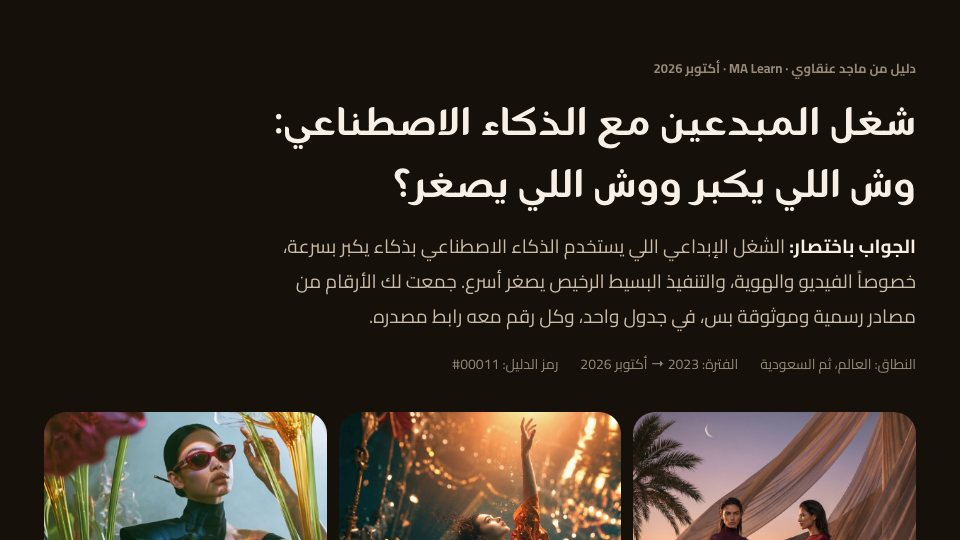
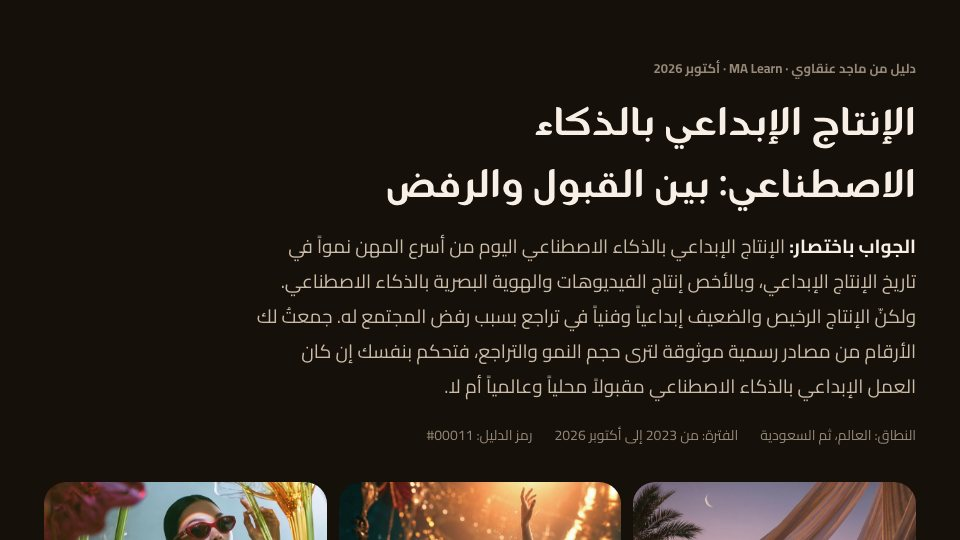
guides: #00011 card — new formal-Arabic title and description

Changed region(s): [[0.0312, 0.4444, 0.9688, 1.0], [0.2812, 0.1778, 0.9688, 0.3852]]

diff --git a/guides/index.html b/guides/index.html
@@ -62,7 +62,7 @@
   "mainEntity": {
     "@type": "ItemList",
     "itemListElement": [
-      { "@type": "ListItem", "position": 1, "name": "شغل المبدعين مع الذكاء الاصطناعي: وش اللي يكبر ووش اللي يصغر؟", "url": "https://player.malearnsa.com/guides/creative-ai-freelance-growth.html" },
+      { "@type": "ListItem", "position": 1, "name": "الإنتاج الإبداعي بالذكاء الاصطناعي: بين القبول والرفض", "url": "https://player.malearnsa.com/guides/creative-ai-freelance-growth.html" },
       { "@type": "ListItem", "position": 2, "name": "هل فيه طلب على المبدعين بالذكاء الاصطناعي في السعودية والخليج؟", "url": "https://player.malearnsa.com/guides/ai-creatives-demand-ksa-gcc.html" },
       { "@type": "ListItem", "position": 3, "name": "ترتيب منصات الذكاء الاصطناعي الإبداعي", "url": "https://player.malearnsa.com/guides/creative-ai-platforms.html" },
       { "@type": "ListItem", "position": 4, "name": "مكتبة البرومبتات الجاهزة", "url": "https://player.malearnsa.com/guides/prompt-library.html" },
@@ -175,12 +175,12 @@
         <!-- Guide codes are permanent: never renumber or reuse. NEXT CODE: 00012 (keep the ItemList above in sync). -->
         <div class="grid" id="grid">
 
-          <article class="card card-hover g-card" data-code="00011" data-cat="market" data-k="نمو طلب سوق مستقلين مستقل فريلانس عمل حر شغل المبدعين مبدع يكبر يصغر فيديو صور هوية شعار كتابة ترجمة تصميم جرافيك مونتاج ارقام احصائيات مصادر جدول Upwork Fiverr WEF BLS freelance freelancers growth demand AI video design writing translation market report">
+          <article class="card card-hover g-card" data-code="00011" data-cat="market" data-k="نمو ينمو تراجع يتراجع قبول رفض انتاج إنتاج ابداعي طلب سوق مستقلين مستقل فريلانس عمل حر شغل المبدعين مبدع يكبر يصغر اصالة إفصاح Deloitte فيديو صور هوية شعار كتابة ترجمة تصميم جرافيك مونتاج ارقام احصائيات مصادر جدول Upwork Fiverr WEF BLS freelance freelancers growth demand AI video design writing translation market report">
             <a class="g-thumb img-slot" href="https://player.malearnsa.com/guides/creative-ai-freelance-growth.html" tabindex="-1" aria-hidden="true"><img src="thumbs/creative-ai-freelance-growth.jpg" width="960" height="540" loading="lazy" alt=""></a>
             <div class="g-body">
               <div class="g-tags"><span class="tag tag-neutral g-code" dir="ltr" title="رمز الدليل">#00011</span><span class="tag">السوق والمهنة</span></div>
-              <h2 class="g-title"><a href="https://player.malearnsa.com/guides/creative-ai-freelance-growth.html">شغل المبدعين مع الذكاء الاصطناعي: وش اللي يكبر ووش اللي يصغر؟</a></h2>
-              <p class="g-desc">جدول واحد بالأرقام من مصادر رسمية وموثوقة: أي مجالات الشغل الإبداعي الحر تكبر مع الذكاء الاصطناعي وأيها تصغر، وكل رقم معه رابط مصدره.</p>
+              <h2 class="g-title"><a href="https://player.malearnsa.com/guides/creative-ai-freelance-growth.html">الإنتاج الإبداعي بالذكاء الاصطناعي: بين القبول والرفض</a></h2>
+              <p class="g-desc">جدول واحد بالأرقام من مصادر رسمية وموثوقة: أي مجالات العمل الإبداعي الحر تنمو مع الذكاء الاصطناعي وأيها يتراجع، وأين يقف الجمهور بين القبول والرفض.</p>
               <div class="g-meta">أكتوبر ٢٠٢٦ · جدول ومصادر</div>
               <div class="g-actions"><a class="btn btn-ghost btn-sm" href="https://player.malearnsa.com/guides/creative-ai-freelance-growth.html">افتح الدليل</a></div>
             </div>
